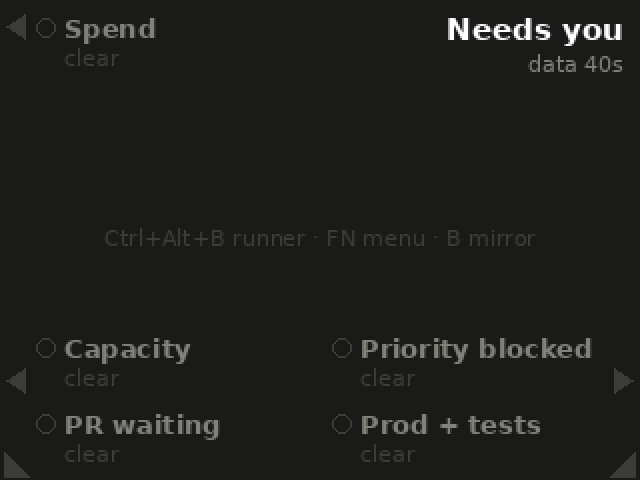
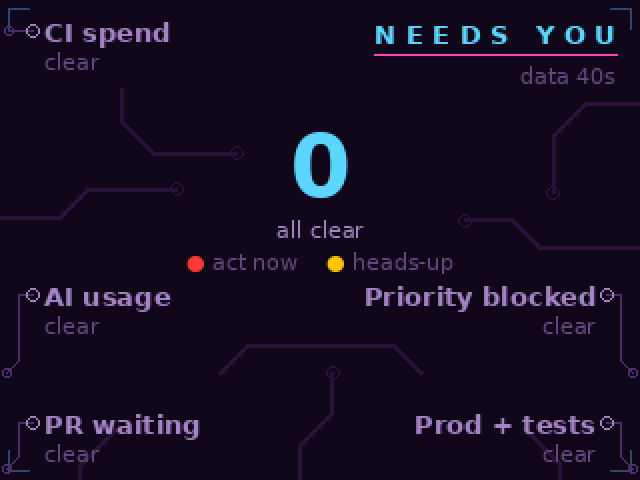
Badge-themed report, red/yellow levels, FN and Ctrl+Alt arrows set light level (#58)
- Report in the DEF CON 32 badge's style: violet PCB traces, neon cyan title, a trace from each signal to
  its LED; middle signals moved up; right column right-aligned against its LEDs; centre shows how many.
- Colours follow the situation: red = act now, yellow = heads-up, on the LEDs and the screen, with a legend.
  Indicators carry a level from the writer; no level falls back to the old orange.
- FN + up/down and Ctrl+Alt+Up/Down step the light level 10/25/50/100%. gnome_shortcuts.sh takes only those
  two combos out of GNOME's workspace up/down (and puts them back on --remove). Screen brightness: FN menu.

Claude-Session: https://claude.ai/code/session_01FMZi7rZF126zrCB2vwNpQ9

diff --git a/host/dc32host/attention.py b/host/dc32host/attention.py
@@ -25,7 +25,11 @@ from .runner_view import BG, INK, INK2, MUTED, GRID, BAD, WARN, OK, _ttf
 
 PATH = Path.home() / ".cache" / "dc32-display" / "attention.json"
 STALE_S = 600
-LIT = (255, 80, 0)                    # one steady colour for "needs you"
+LIT = (255, 80, 0)                    # lit with no level given (older writers)
+# red = act now, yellow = heads-up. LED values are tuned for the WS2812s; screen values for the LCD.
+LEVEL_LED = {"red": (255, 0, 0), "yellow": (255, 150, 0)}
+LEVEL_SCREEN = {"red": (255, 56, 56), "yellow": (255, 196, 0)}
+LEVEL_GLOW = {"red": (90, 0, 0), "yellow": (88, 60, 0)}
 STALE_RGB = (255, 255, 255)
 # Default mapping from the firmware's front LEDs (0,2,4,5,6) and its button zones (4 = D-pad, left low;
 # 5 = A/B, right low; 6 = START/SELECT, right middle). 0 and 2 (left top / left middle) are UNCONFIRMED:
@@ -36,7 +40,7 @@ DEFAULT_SLOTS = {"spend": "left_top", "capacity": "left_middle", "pr_waiting": "
 SLOT_ORDER = ["left_top", "left_middle", "left_low", "right_middle", "right_low"]
 # Where each slot sits on the 320x240 screen: label y, and the arrow toward its LED (point, direction).
 # Top LED is beside the screen's top edge; middle LEDs beside its bottom edge; low LEDs below the screen.
-SLOT_Y = {"top": 6, "middle": 166, "low": 204}
+SLOT_Y = {"top": 8, "middle": 140, "low": 204}
 IDENTIFY_S = 3.0
 N_LEDS = 9
 
@@ -79,9 +83,10 @@ def frame(t, state, leds_map):
                 if 0 <= idx < N_LEDS:
                     out[idx] = STALE_RGB
         return out
-    for idx in lit_leds(state, leds_map):
-        if 0 <= idx < N_LEDS:
-            out[idx] = LIT
+    for i in state["indicators"]:
+        idx = leds_map.get(i["id"])
+        if i.get("lit") and idx is not None and 0 <= idx < N_LEDS:
+            out[idx] = LEVEL_LED.get(i.get("level"), LIT)
     return out
 
 
@@ -149,63 +154,140 @@ def _wrap(d, text, font, width, lines):
     return [_fit(d, l, font, width) for l in out]
 
 
-def _arrow(d, side, row, fill):
-    """Arrow at the screen edge pointing at the LED: sideways for top/middle, diagonally down for low."""
-    W, H = C.OUT_W, C.OUT_H
-    if row == "low":
-        if side == "left":
-            pts = [(2, H - 2), (14, H - 2), (2, H - 14)]
-        else:
-            pts = [(W - 3, H - 2), (W - 15, H - 2), (W - 3, H - 14)]
+# Badge theme (DEF CON 32 "HUMAN" badge: violet PCB, neon cyan screen frame, magenta traces).
+TH_BG = (16, 7, 26)
+TH_PCB = (40, 18, 58)          # faint background traces
+TH_TRACE = (78, 44, 108)       # an indicator's trace when clear
+TH_CYAN = (92, 214, 255)
+TH_MAGENTA = (255, 64, 196)
+TH_VIOLET = (164, 132, 196)    # clear labels
+TH_DIM = (98, 74, 128)
+TH_GLOW = (96, 30, 0)          # under a lit trace
+
+# Faint PCB traces behind everything: (polyline, via at end?)
+_PCB = [
+    ([(60, 44), (60, 60), (76, 76), (118, 76)], True), ([(320, 52), (292, 52), (276, 68), (276, 96)], True),
+    ([(0, 108), (30, 108), (44, 94), (88, 94)], True), ([(320, 124), (270, 124), (256, 110), (232, 110)], True),
+    ([(150, 240), (150, 222), (166, 206), (166, 186)], True), ([(110, 186), (124, 172), (196, 172), (210, 186)], False),
+    ([(40, 240), (40, 232), (58, 214)], False), ([(280, 240), (280, 232), (262, 214)], False),
+]
+
+# Each slot: the trace from its pad to the screen edge nearest the LED (left side; mirrored for right).
+_TRACES = {
+    "top": [(16, 15), (4, 15)],
+    "middle": [(16, 147), (9, 147), (9, 180), (3, 186)],
+    "low": [(16, 211), (9, 211), (9, 228), (3, 234)],
+}
+
+
+def _mirror(pts):
+    return [(C.OUT_W - 1 - x, y) for x, y in pts]
+
+
+def _via(d, xy, r, col, fill=None):
+    x, y = xy
+    d.ellipse([x - r, y - r, x + r, y + r], outline=col, fill=fill, width=1)
+
+
+def _background(d):
+    for pts, via in _PCB:
+        d.line(pts, fill=TH_PCB, width=2, joint="curve")
+        if via:
+            _via(d, pts[-1], 3, TH_PCB)
+    # screen-frame corner brackets, like the badge's own screen art
+    for (x, y, dx, dy) in ((4, 4, 1, 1), (C.OUT_W - 5, 4, -1, 1), (4, C.OUT_H - 5, 1, -1),
+                           (C.OUT_W - 5, C.OUT_H - 5, -1, -1)):
+        d.line([(x, y + dy * 10), (x, y), (x + dx * 10, y)], fill=(48, 70, 110), width=1)
+
+
+def _trace(d, side, row, lit, stale, col=LIT, glow=TH_GLOW):
+    pts = _TRACES[row] if side == "left" else _mirror(_TRACES[row])
+    if lit:
+        d.line(pts, fill=glow, width=6, joint="curve")
+        d.line(pts, fill=col, width=2, joint="curve")
+        end = pts[-1]
+        d.ellipse([end[0] - 3, end[1] - 3, end[0] + 3, end[1] + 3], fill=col)
     else:
-        ay = {"top": 13, "middle": 190}[row]
-        ax, step = (3, 1) if side == "left" else (W - 4, -1)
-        pts = [(ax, ay), (ax + step * 9, ay - 6), (ax + step * 9, ay + 6)]
-    d.polygon(pts, fill=fill)
+        d.line(pts, fill=(120, 120, 130) if stale else TH_TRACE, width=1, joint="curve")
+        _via(d, pts[-1], 2, (120, 120, 130) if stale else TH_TRACE)
 
 
 def render(state, slots_map=None, now=None):
-    """320x240 report: each indicator beside its LED with an arrow pointing at it; one short line each."""
+    """320x240 report in the badge's style: each signal beside its LED, a PCB trace running to it."""
     slots_map = {k: v for k, v in (slots_map or DEFAULT_SLOTS).items() if v in SLOT_ORDER}
     now = now or dt.datetime.now(dt.timezone.utc)
-    img = Image.new("RGB", (C.OUT_W, C.OUT_H), BG)
+    img = Image.new("RGB", (C.OUT_W, C.OUT_H), TH_BG)
     d = ImageDraw.Draw(img)
-    f_t, f_l, f_s = _ttf(15, bold=True), _ttf(13, bold=True), _ttf(11)
-    title = "Needs you"                        # top right: there is no LED there
-    d.text((C.OUT_W - 8 - d.textlength(title, font=f_t), 6), title, font=f_t, fill=INK)
-    if state["stale"]:
-        tag = "STALE " + _age(state["age"]) if state["age"] is not None else "STALE no data"
-        col = BAD
-    else:
-        tag, col = "data " + _age(state["age"]), MUTED
-    d.text((C.OUT_W - 8 - d.textlength(tag, font=f_s), 25), tag, font=f_s, fill=col)
-    hint = "Ctrl+Alt+B runner · FN menu · B mirror"
-    d.text(((C.OUT_W - d.textlength(hint, font=f_s)) / 2, 112), hint, font=f_s, fill=GRID)
+    _background(d)
+    f_t, f_l, f_s, f_big = _ttf(13, bold=True), _ttf(13, bold=True), _ttf(11), _ttf(44, bold=True)
+    stale = state["stale"]
     by_slot = {}
     for n, i in enumerate(state["indicators"]):
         s = slots_map.get(i["id"]) or (SLOT_ORDER[n] if n < len(SLOT_ORDER) and not slots_map else None)
         if s and s not in by_slot:
             by_slot[s] = i
-    colw = 136
+    lits = [i for i in by_slot.values() if i.get("lit")] if not stale else []
+    n_lit = len(lits)
+    worst = "red" if any(i.get("level") == "red" for i in lits) else ("yellow" if lits else None)
+    # title, top right (no LED there)
+    title = "N E E D S   Y O U"
+    tw = d.textlength(title, font=f_t)
+    d.text((C.OUT_W - 12 - tw, 9), title, font=f_t, fill=TH_CYAN)
+    d.line([(C.OUT_W - 12 - tw, 27), (C.OUT_W - 12, 27)], fill=TH_MAGENTA, width=1)
+    if stale:
+        tag, col = ("STALE " + _age(state["age"])) if state["age"] is not None else "STALE  no data", BAD
+    else:
+        tag, col = "data " + _age(state["age"]), TH_DIM
+    d.text((C.OUT_W - 12 - d.textlength(tag, font=f_s), 31), tag, font=f_s, fill=col)
+    # centre: how many need you
+    big = "?" if stale else str(n_lit)
+    bw = d.textlength(big, font=f_big)
+    bc = (200, 200, 210) if stale else (LEVEL_SCREEN.get(worst, LIT) if n_lit else TH_CYAN)
+    d.text(((C.OUT_W - bw) / 2, 58), big, font=f_big, fill=bc)
+    sub = "data is old" if stale else ("need you" if n_lit > 1 else "needs you" if n_lit == 1 else "all clear")
+    d.text(((C.OUT_W - d.textlength(sub, font=f_s)) / 2, 108), sub, font=f_s, fill=TH_VIOLET)
+    # legend: what the two colours mean
+    parts = [("●", LEVEL_SCREEN["red"]), (" act now    ", TH_DIM), ("●", LEVEL_SCREEN["yellow"]), (" heads-up", TH_DIM)]
+    lw = sum(d.textlength(t, font=f_s) for t, _ in parts)
+    lx = (C.OUT_W - lw) / 2
+    for t, c in parts:
+        d.text((lx, 124), t, font=f_s, fill=c)
+        lx += d.textlength(t, font=f_s)
+    colw = 150
     for s, ind in by_slot.items():
         side, row = s.split("_")
-        x = 18 if side == "left" else C.OUT_W - 18 - colw
         y = SLOT_Y[row]
-        lit = bool(ind.get("lit")) and not state["stale"]
-        _arrow(d, side, row, LIT if lit else GRID)
+        lit = bool(ind.get("lit")) and not stale
+        col = LEVEL_SCREEN.get(ind.get("level"), LIT)
+        _trace(d, side, row, lit, stale, col, LEVEL_GLOW.get(ind.get("level"), TH_GLOW))
+        pad = (16, y + 7) if side == "left" else (C.OUT_W - 17, y + 7)
+        if lit:
+            d.ellipse([pad[0] - 4, pad[1] - 4, pad[0] + 4, pad[1] + 4], fill=col)
+        else:
+            _via(d, pad, 3, TH_VIOLET if not stale else (150, 150, 160))
         label = ind.get("label") or ind["id"].replace("_", " ")
         age_s = ""
         if lit:
             since = _parse(ind.get("since"))
             age_s = _age((now - since).total_seconds()) if since else ""
         aw = d.textlength(age_s, font=f_s) + 6 if age_s else 0
-        d.ellipse([x, y + 3, x + 9, y + 12], fill=LIT if lit else None, outline=LIT if lit else GRID)
-        d.text((x + 14, y), _fit(d, label, f_l, colw - 14 - aw), font=f_l, fill=INK if lit else MUTED)
-        if age_s:
-            d.text((x + colw - aw + 6, y + 1), age_s, font=f_s, fill=WARN)
+        label = _fit(d, label, f_l, colw - aw)
         if lit:
-            d.text((x + 14, y + 16), _fit(d, ind.get("reason") or "", f_s, colw - 14), font=f_s, fill=INK2)
+            line2, c2 = _fit(d, ind.get("reason") or "", f_s, colw), col
         else:
-            d.text((x + 14, y + 16), "clear" if not state["stale"] else "unknown", font=f_s,
-                   fill=GRID if not state["stale"] else MUTED)
+            line2, c2 = ("clear" if not stale else "unknown"), TH_DIM
+        # left column reads from its LED inward; the right column is right-aligned against its LED
+        if side == "left":
+            x0 = 22
+            d.text((x0, y), label, font=f_l, fill=INK if lit else TH_VIOLET)
+            if age_s:
+                d.text((x0 + d.textlength(label, font=f_l) + 6, y + 1), age_s, font=f_s, fill=TH_MAGENTA)
+            d.text((x0, y + 16), line2, font=f_s, fill=c2)
+        else:
+            xr = C.OUT_W - 22
+            lwid = d.textlength(label, font=f_l)
+            d.text((xr - lwid, y), label, font=f_l, fill=INK if lit else TH_VIOLET)
+            if age_s:
+                d.text((xr - lwid - aw, y + 1), age_s, font=f_s, fill=TH_MAGENTA)
+            d.text((xr - d.textlength(line2, font=f_s), y + 16), line2, font=f_s, fill=c2)
     return np.asarray(img).copy()

diff --git a/tests/test_attention.py b/tests/test_attention.py
@@ -17,13 +17,16 @@ def iso(sec_ago):
     return (NOW - dt.timedelta(seconds=sec_ago)).strftime('%Y-%m-%dT%H:%M:%SZ')
 
 
+LEVELS = {'production': 'yellow', 'pr_waiting': 'yellow', 'priority_blocked': 'red', 'spend': 'yellow'}
+
+
 def doc(age, lit=()):
     inds = []
     for i, (k, label) in enumerate([('priority_blocked', 'Priority blocked'), ('production', 'Prod + tests'),
-                                     ('spend', 'Spend'), ('capacity', 'Capacity'), ('pr_waiting', 'PR waiting')]):
+                                     ('spend', 'CI spend'), ('capacity', 'AI usage'), ('pr_waiting', 'PR waiting')]):
         on = k in lit
         inds.append({'id': k, 'label': label, 'lit': on, 'reason': lit[k] if on else '', 'since': iso(3 * 3600) if on else None,
-                     'link': None})
+                     'link': None, 'level': LEVELS.get(k) if on else None})
     return {'at': iso(age), 'indicators': inds}
 
 
@@ -38,6 +41,7 @@ FIXTURES = {
     'none': doc(40),
     'two': doc(40, {'production': 'labbox unreachable', 'pr_waiting': '2 PRs, oldest 31h'}),
     'stale': doc(25 * 60, {'production': 'health check failed twice'}),
+    'red': doc(40, {'priority_blocked': 'Demo task', 'spend': '$70/$80'}),
 }
 
 
@@ -54,7 +58,7 @@ class Attention(unittest.TestCase):
         self.assertEqual(A.lit_leds(st, m), {1, m['pr_waiting']})
         f = A.frame(5.0, st, m)
         self.assertEqual([i for i, c in enumerate(f) if c != (0, 0, 0)], sorted({1, m['pr_waiting']}))
-        self.assertEqual(f[1], A.LIT)
+        self.assertEqual(f[1], A.LEVEL_LED['yellow'])          # colour follows the indicator's level
 
     def test_stale_blinks_all_mapped_white(self):
         for obj in (FIXTURES['stale'], None):

diff --git a/host/dc32host/daemon.py b/host/dc32host/daemon.py
@@ -661,18 +661,23 @@ class Daemon:
         elif name == "bootsel":            # for tools/badgetool.py flash while the daemon owns USB
             log.info("rebooting the badge into BOOTSEL")
             self.send(P.reboot(bootsel=True))
-        elif name == "led_brightness" or name.startswith("led_brightness:"):
+        elif name in ("led_brightness", "led_brightness_up", "led_brightness_down") or name.startswith("led_brightness:"):
             # LED (not screen) brightness. `led_brightness` steps 100 -> 50 -> 25 -> 10 -> 100;
+            # `_up` / `_down` (FN + up/down, Ctrl+Alt+Up/Down) move one step and stop at the ends;
             # `led_brightness:<1-100>` sets a percent. Saved, so it survives a restart.
             arg = name.partition(":")[2]
-            if arg:
+            cur = led_pct(self.cfg)
+            if name == "led_brightness_up":
+                pct = next((s for s in sorted(LED_STEPS) if s > cur), max(LED_STEPS))
+            elif name == "led_brightness_down":
+                pct = next((s for s in LED_STEPS if s < cur), min(LED_STEPS))
+            elif arg:
                 try:
                     pct = max(1, min(100, int(arg)))
                 except ValueError:
                     self.say(f"LED brightness: not a percent: {arg}")
                     return
             else:
-                cur = led_pct(self.cfg)
                 pct = next((s for s in LED_STEPS if s < cur), LED_STEPS[0])
             self.cfg["led_brightness_pct"] = pct
             self._save_pref("led_brightness_pct", pct)

diff --git a/host/dc32host/help_view.py b/host/dc32host/help_view.py
@@ -20,12 +20,12 @@ KEYS = [("B", "runner / report", "toggle_report"), ("F", "Flipper Zero", "flippe
         ("M", "command menu", "command_menu"), ("P", "Doom II", "doom2")]
 NUMBERED = [a for _, _, a in KEYS]               # number n opens KEYS[n-1]; 0 = the 10th
 # Other Ctrl+Alt shortcuts (not numbered), shown as a footer on page 1.
-EXTRA = "also: R refresh · G lights · S sleep · Z/X zoom/fit · Y keyboard · H page"
+EXTRA = "also: R refresh · G lights · ▲▼ light level · S sleep · Z/X zoom · Y keys · H page"
 BADGE = [("FN", "menu"), ("B", "back / close"),
          ("A", "zoom"), ("A hold", "runner"),
          ("D-pad", "move view"), ("START", "app list"),
          ("SELECT", "previous app"), ("SEL hold", "pin mode"),
-         ("FN + B", "info"), ("FN ▲▼", "brightness")]
+         ("FN + B", "info"), ("FN ▲▼", "lights dim / bright")]
 # Page 3 — what the controls do inside each view.
 APPS = [("Flipper", "D-pad move · A=OK · B=Back · Ctrl+Alt+Y = PC keys"),
         ("Spectrum", "◀▶ tune · ▲▼ step · A=band · START=audio"),

diff --git a/tests/test_led_brightness.py b/tests/test_led_brightness.py
@@ -34,6 +34,20 @@ class LedBrightness(unittest.TestCase):
         self.assertEqual(d.saved['led_brightness_pct'], 50)
         self.assertIsNone(d._leds_last)          # forces the next frame to be re-sent
 
+    def test_up_down_step_and_stop_at_ends(self):
+        d = stub(25)
+        seen = []
+        for a in ('led_brightness_up', 'led_brightness_up', 'led_brightness_up', 'led_brightness_down',
+                  'led_brightness_down', 'led_brightness_down', 'led_brightness_down'):
+            D.Daemon.action(d, a)
+            seen.append(d.cfg['led_brightness_pct'])
+        self.assertEqual(seen, [50, 100, 100, 50, 25, 10, 10])
+
+    def test_fn_up_down_drive_the_lights(self):
+        from dc32host import config as CF
+        self.assertEqual(CF.DEFAULTS['buttons']['fn+up.short'], 'led_brightness_up')
+        self.assertEqual(CF.DEFAULTS['buttons']['fn+down.short'], 'led_brightness_down')
+
     def test_explicit_percent(self):
         d = stub()
         D.Daemon.action(d, 'led_brightness:50')

diff --git a/host/dc32host/config.py b/host/dc32host/config.py
@@ -96,8 +96,8 @@ DEFAULTS = {
         "down.down": "pan_down", "down.repeat": "pan_down",
         "left.down": "pan_left", "left.repeat": "pan_left",
         "right.down": "pan_right", "right.repeat": "pan_right",
-        "fn+up.short": "brightness_up",
-        "fn+down.short": "brightness_down",
+        "fn+up.short": "led_brightness_up",      # lights brighter (screen brightness: FN menu)
+        "fn+down.short": "led_brightness_down",  # lights dimmer
         "fn+left.short": "none",       # e.g. "key:left" to inject arrow keys (disabled by default)
         "fn+right.short": "none",
         "fn+a.short": "focus_shown",
